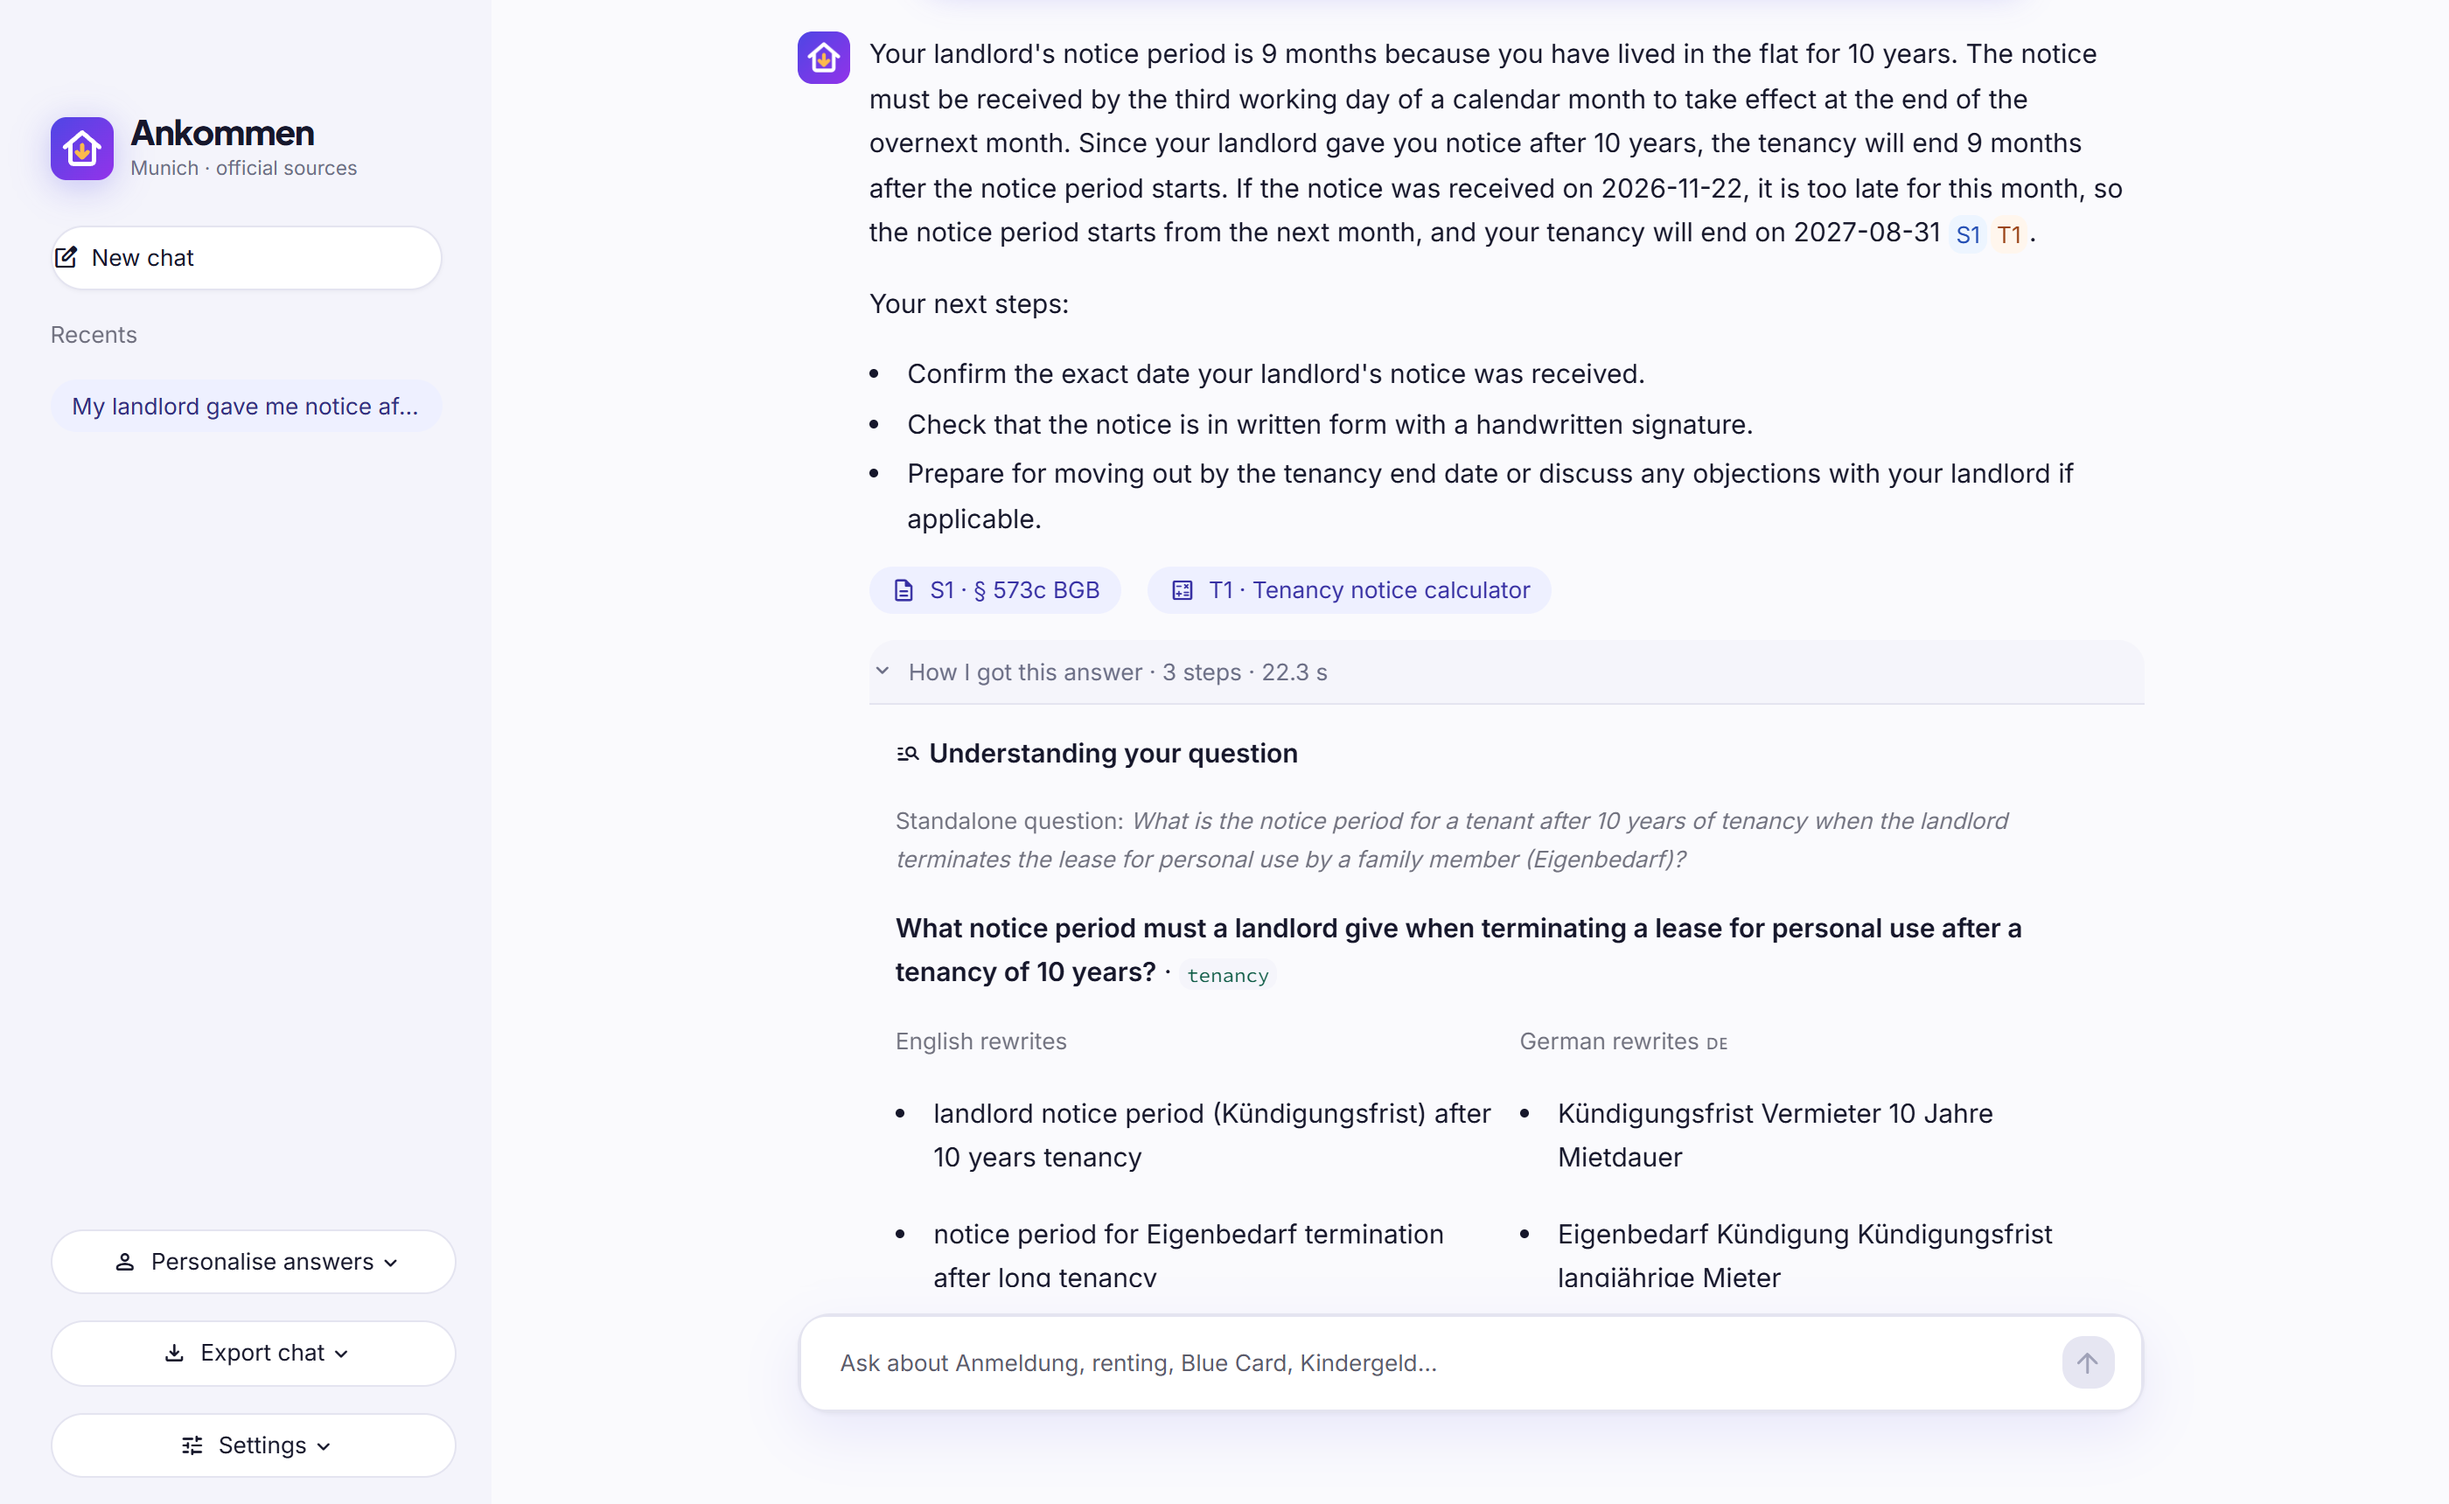
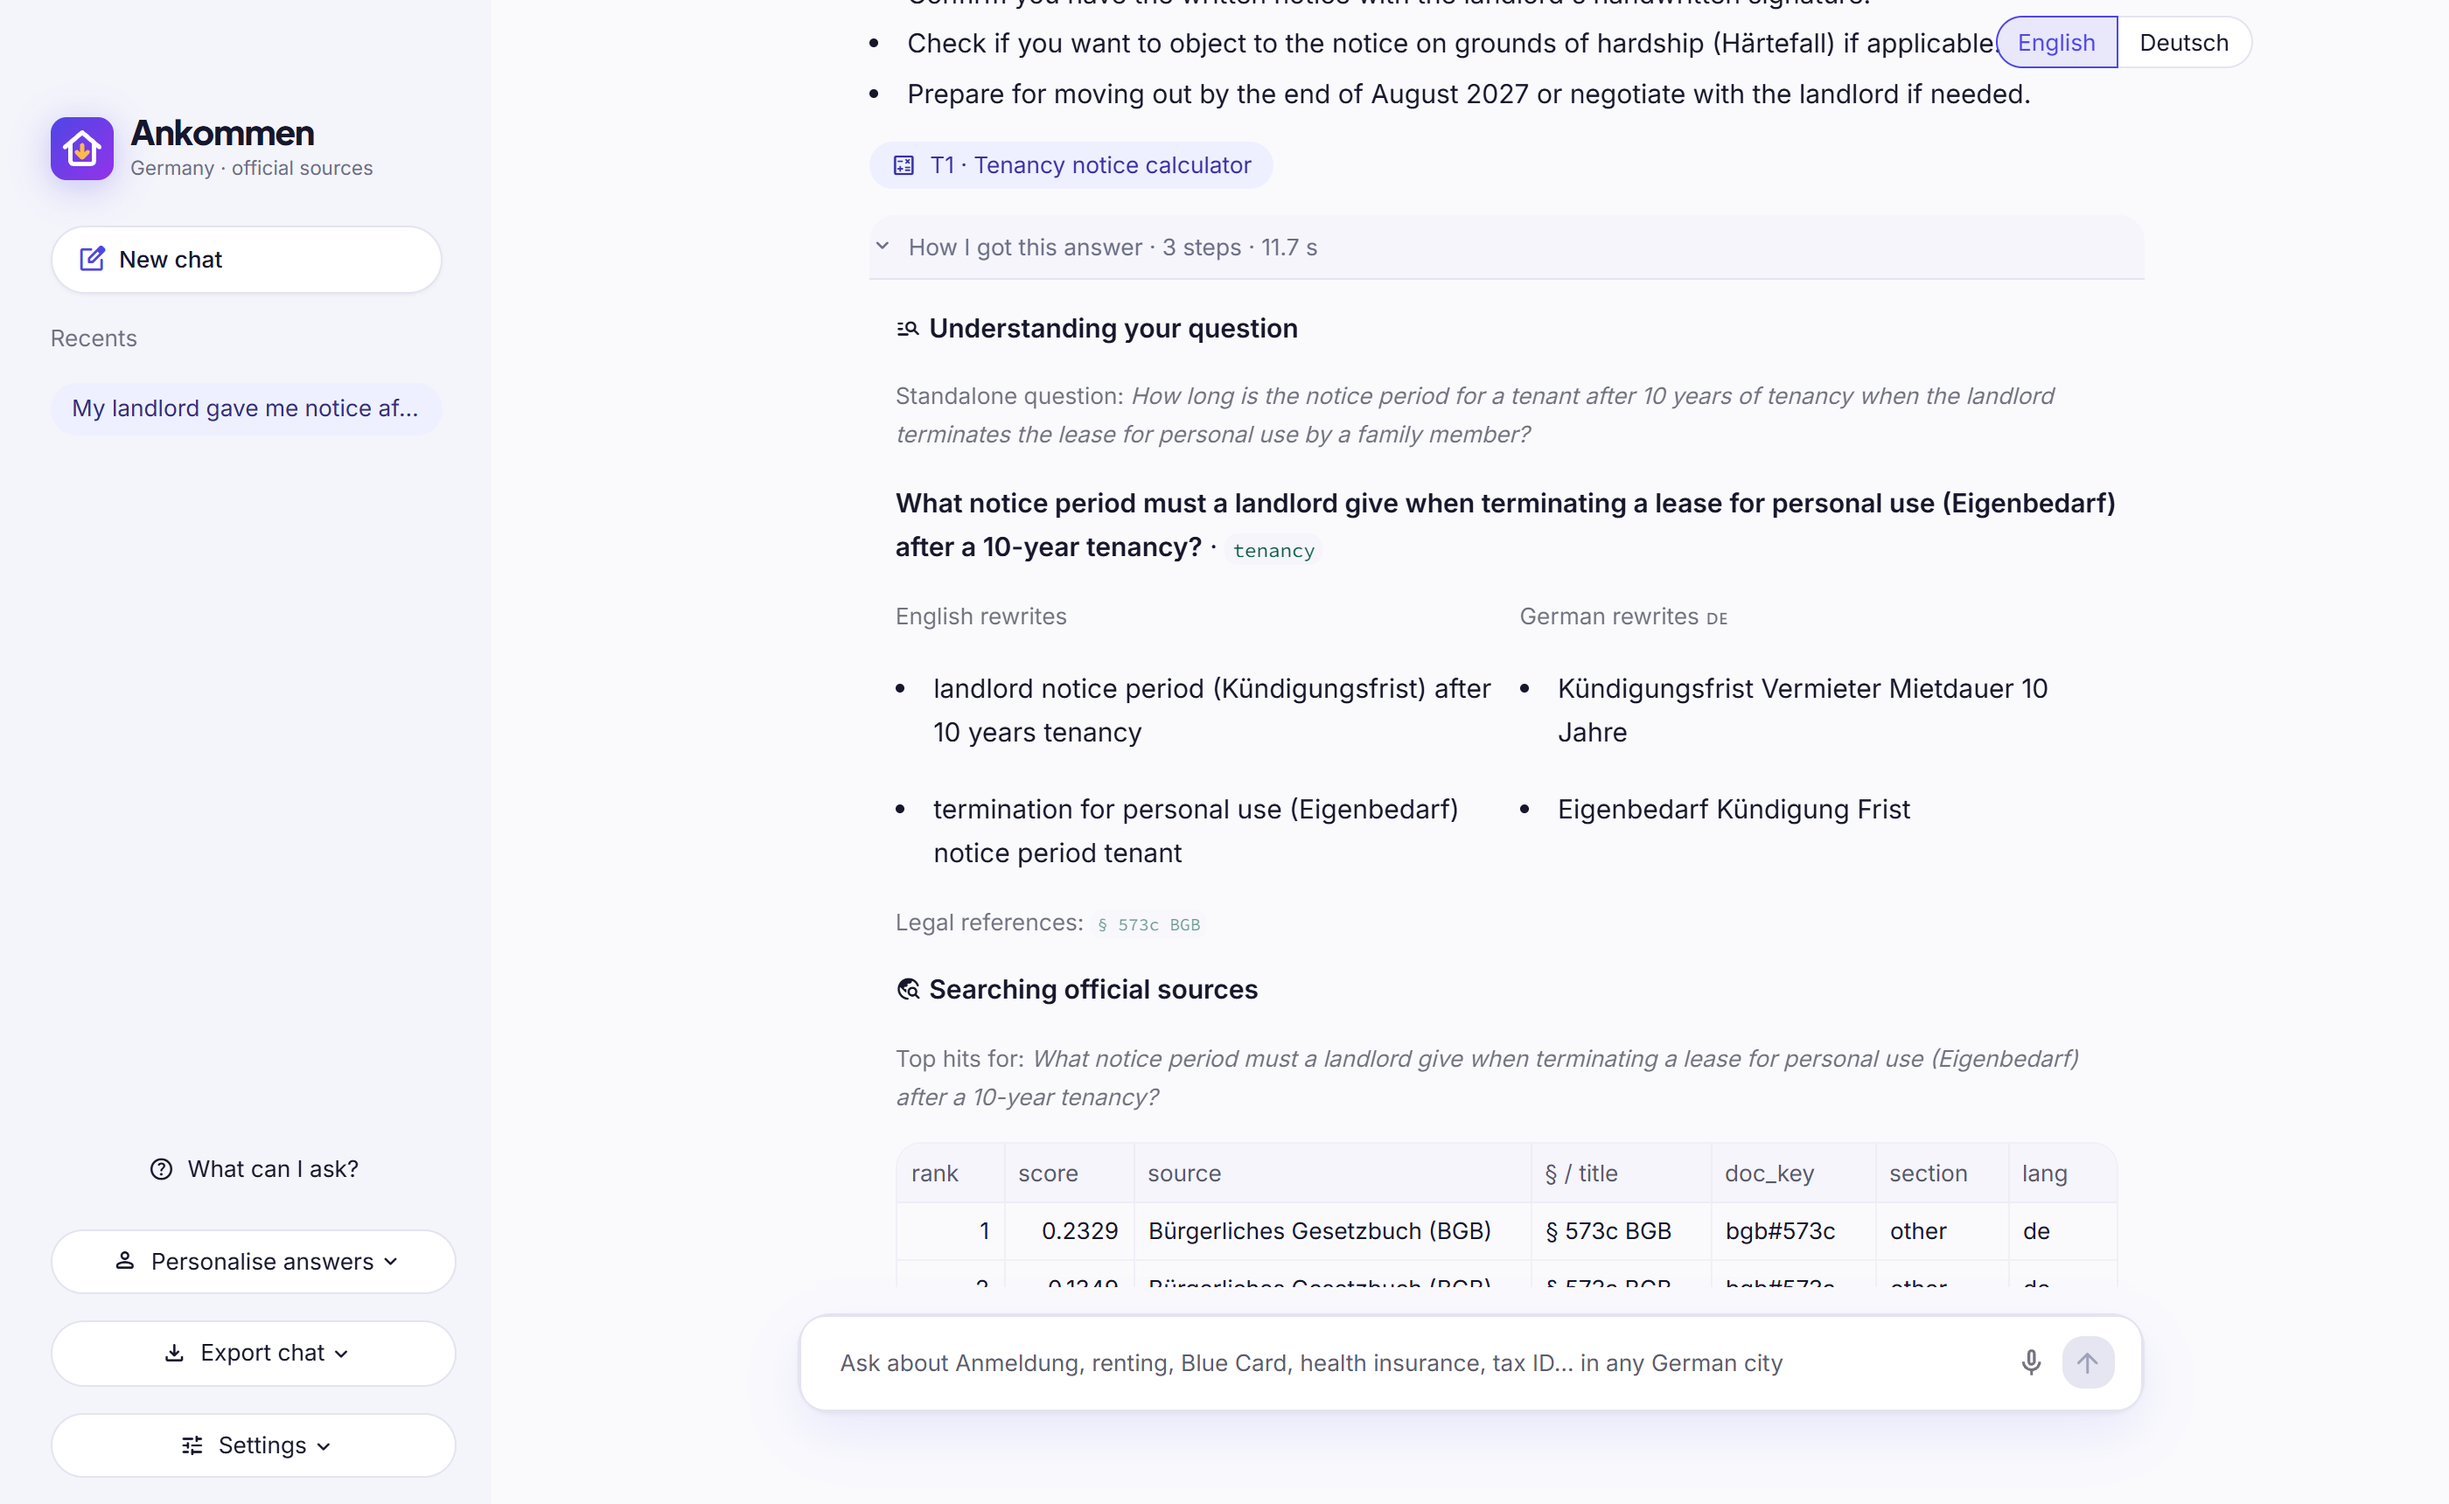
docs(readme): current screenshots, help guide, evaluation commands, scripts and limits
- retake all three screenshots on the current UI ("What can I ask?" button, Germany subtitle, mic);
  add the help guide screenshot
- Highlights / tech stack: LLM judges, calibration and Ragas; 500+ tests (518)
- Quick start: evaluation commands with the spend guard; project layout lists scripts/
- Docs table: data sources; limitations: lists published as separate documents are not indexed

diff --git a/README.md b/README.md
@@ -15,10 +15,11 @@ An assistant that helps expats in **Germany** deal with registration, residence 
 ![An answer with a cited law paragraph and a tool calculation](docs/images/answer.png)
 
 <details>
-<summary>More screenshots: start screen, "How I got this answer"</summary>
+<summary>More screenshots: start screen, "What can I ask?" guide, "How I got this answer"</summary>
 
 ![Start screen with suggested topics](docs/images/home.png)
-![Query analysis: standalone question, English and German rewrites](docs/images/how-i-got-this-answer.png)
+![The "What can I ask?" guide: topics with one-click example questions](docs/images/help.png)
+![How I got this answer: standalone question, English and German rewrites, legal reference, top search hits](docs/images/how-i-got-this-answer.png)
 </details>
 
 ## How it works
@@ -52,7 +53,8 @@ as a versioned bundle ([ADR-0010](docs/adr/0010-deployed-index-bundle.md)). Ever
   pipeline as a typed question, so citations and checks are identical; recordings are not stored
   ([ADR-0011](docs/adr/0011-voice-cascade-stt-tts.md))
 - **English | Deutsch:** one switch sets the interface and the answer language
-- **Evaluated:** golden dataset + LangSmith experiments (results below)
+- **Evaluated:** 85-question golden set, LangSmith experiments, LLM judges calibrated against labels, and a
+  Ragas cross-check (results below)
 - **Safe by design:** safety pre-check (emergency, asylum, court cases, police letters, medical, tax forms) with
   fixed referrals; sources treated as data (prompt-injection hygiene); input validation and usage limits
 - **Transparent:** citation chips, tool cards, "How I got this answer" timeline, tokens and cost per answer,
@@ -97,10 +99,11 @@ Retrieval ablation, before/after runs, failure analysis and known issues: [`docs
 
 | Part | Choice |
 |---|---|
-| Language and tooling | Python 3.12, uv, Pydantic, ruff, mypy, pytest (480+ offline tests) |
+| Language and tooling | Python 3.12, uv, Pydantic, ruff, mypy, pytest (500+ offline tests) |
 | Models, all through OpenRouter ([ADR-0006](docs/adr/0006-openrouter-configurable-models.md)) | GPT-4.1-mini for query analysis and answers; Qwen3-Embedding-8B for embeddings, chosen by a bake-off ([ADR-0002](docs/adr/0002-embedding-model.md)); Whisper large v3 turbo for speech-to-text; Gemini 3.8 Flash Lite TTS for read-aloud |
 | Retrieval | Chroma (embedded) + own German BM25 + Reciprocal Rank Fusion, parent store in SQLite |
 | Orchestration and tracing | LangChain, LangSmith (EU region) |
+| Evaluation | LangSmith experiments, openevals LLM judges (Gemini 2.5 Flash-Lite), Ragas 0.4 in its own environment |
 | UI and hosting | Streamlit on Community Cloud: chat plus password-protected pages for retrieval debugging, the collection, evals and ingestion status |
 
 Every model is a setting (`MODEL_ANSWER`, `MODEL_STT`, …), so swapping one is a config change plus an eval run.
@@ -117,6 +120,8 @@ falls back to **Demo mode** with scripted answers, so the link always works. Det
   classes, citizenship and foreign driving licences. Tax returns and individual tax or legal advice are out of
   scope (the assistant refers to a Steuerberater, Lohnsteuerhilfeverein or lawyer).
 - Sources are snapshots with a "last verified" date; rules change, and the official German text is binding.
+- Lists published as separate documents are not indexed yet, e.g. Baden-Württemberg's list of rent-cap
+  municipalities (found by the Ragas cross-check).
 - Voice was smoke-tested live and tried by hand, but not measured on recordings with accents or background noise.
 - The evaluation sets are small (85 questions, 32 of them holdout; 6–8 per new topic), so the numbers show
   direction, not precision.
@@ -130,6 +135,12 @@ uv run expat-ingest               # fetch official sources -> data/processed/ (~
 uv run expat-index                # embed + build Chroma, BM25 and the parent store
 uv run streamlit run app/Home.py  # chat UI (switch "Live answers" on in Settings)
 ```
+Evaluation (paid runs print a cost estimate first and stop if the key's credit can't cover it):
+```bash
+uv run python -m expat.evals retrieval --split dev                     # retrieval ablation R0-R5
+uv run python -m expat.evals answers --split holdout --dataset expat-golden-v4 --mode langsmith --dry-run
+uv run --script scripts/ragas_eval.py --dry-run                        # Ragas cross-check (own environment)
+```
 make-it-in-germany.com blocks scripted downloads: save its two pages by hand to
 `data/manual/miig-blue-card.html` and `data/manual/miig-family-reunification.html`
 (URLs in `sources.yaml`), then run `uv run expat-ingest --source miig-blue-card miig-family-reunification`.
@@ -141,7 +152,8 @@ src/expat/    ingestion · store (Chroma, BM25, bundle) · rag (analysis, retrie
               tools · evals · speech · safety · guards · config
 rules/        versioned amounts and thresholds used by the tools (2026.yaml)
 sources.yaml  registry of the official sources
-evals/        golden questions and judge calibration
+evals/        golden questions, judge calibration, results and REPORT.md
+scripts/      judge calibration, Ragas cross-check, retrieval benchmark
 tests/        offline tests (network tests are marked and skipped by default)
 docs/         plan, pipeline and database design, evaluation, deployment, decisions (ADRs)
 ```
@@ -154,6 +166,7 @@ docs/         plan, pipeline and database design, evaluation, deployment, decisi
 | RAG pipeline | [`docs/rag-pipeline.md`](docs/rag-pipeline.md) |
 | Tools | [`docs/tools.md`](docs/tools.md) |
 | Evaluation | [`docs/evaluation-plan.md`](docs/evaluation-plan.md) |
+| Data sources | [`docs/data-sources.md`](docs/data-sources.md) |
 | Deployment and limits | [`docs/deployment.md`](docs/deployment.md) |
 | Decisions (ADRs) | [`docs/adr/`](docs/adr/) |
 
